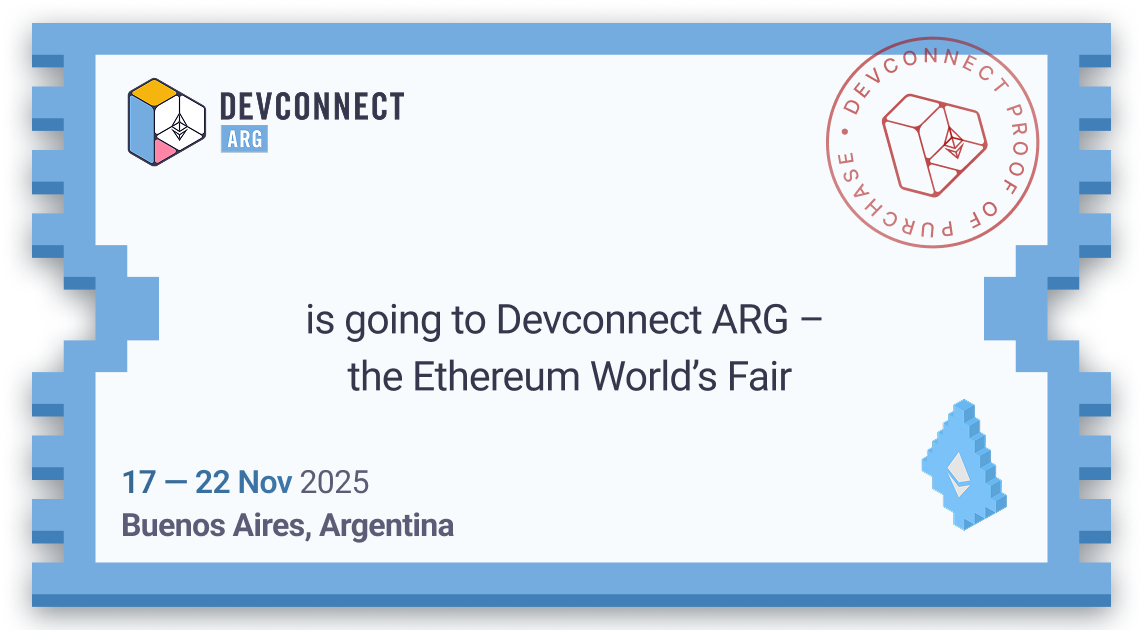
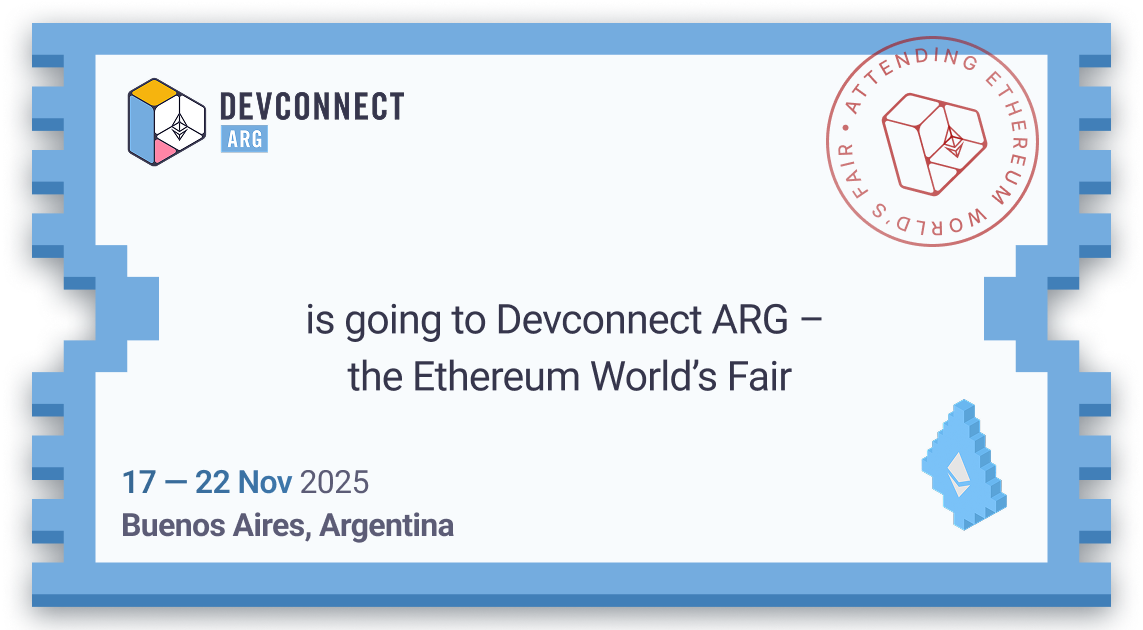
update ticket + name position

Changed region(s): [[0.7349, 0.181, 0.9186, 0.3921], [0.7349, 0.0603, 0.888, 0.2111], [0.7962, 0.2111, 0.8574, 0.2714]]

diff --git a/devconnect/src/common/components/ticket/index.tsx b/devconnect/src/common/components/ticket/index.tsx
@@ -82,7 +82,7 @@ export const Ticket = ({
           width: '100%',
           height: '100%',
           position: 'absolute',
-          top: option === 'instagram' ? 880 : 200,
+          top: option === 'instagram' ? 880 : 222,
           left: 0,
           overflow: 'hidden',
         }}
@@ -91,7 +91,7 @@ export const Ticket = ({
           style={{
             display: 'flex',
             justifyContent: 'center',
-            fontSize: '48px',
+            fontSize: '56px',
             color: '#8855CC',
             fontFamily: isLatinOnly(name) ? 'Roboto Condensed' : 'Noto Sans SC',
           }}
